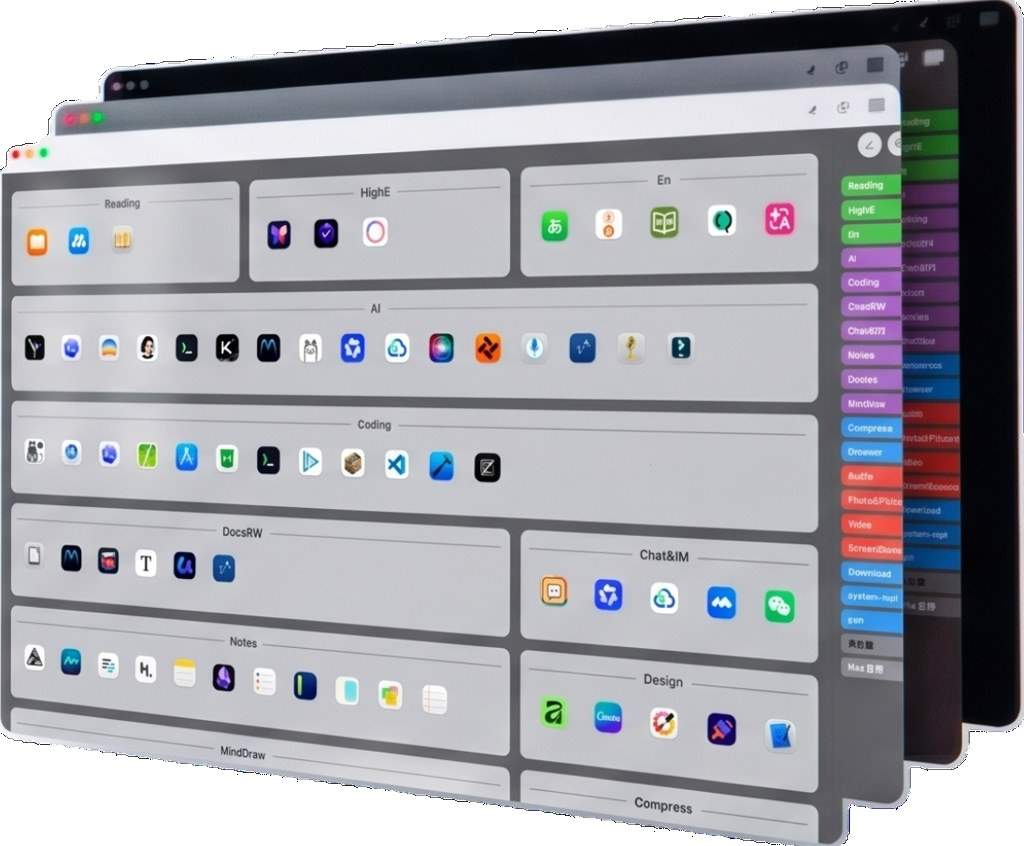
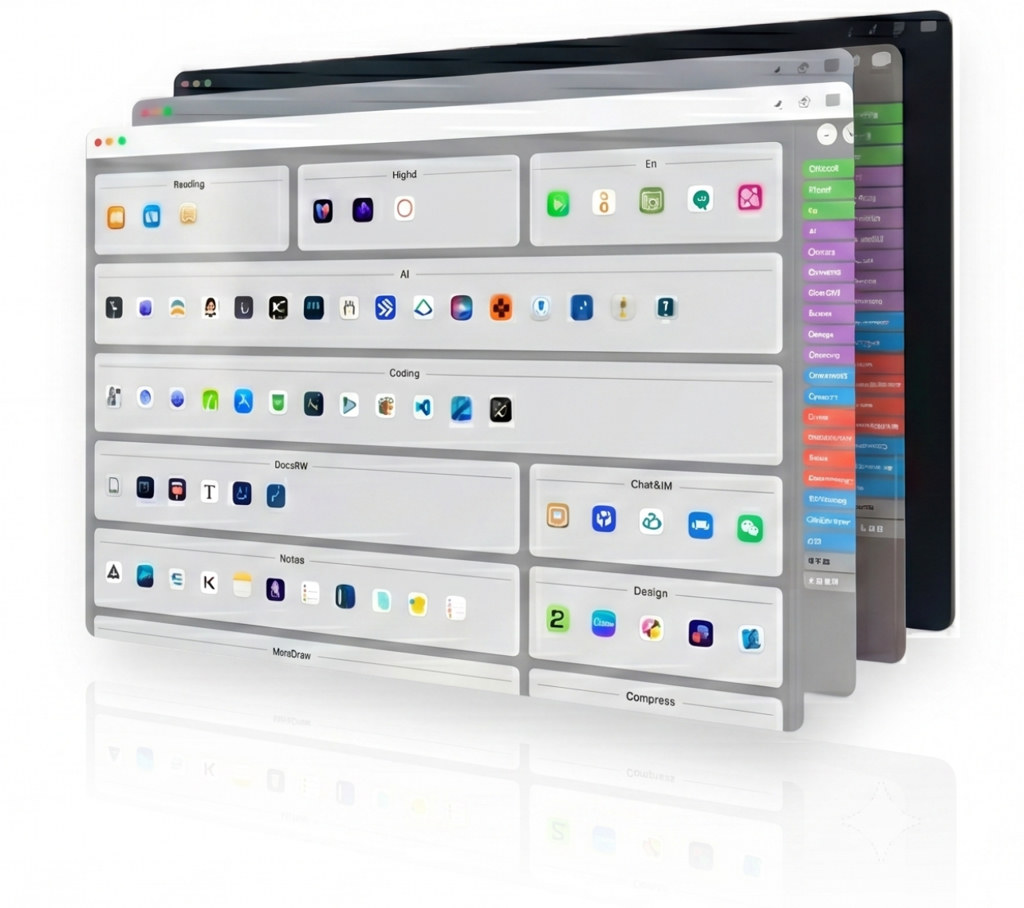
Replace hero visual with user-provided reference image
Use the new white-background stacked-window mockup for the first screen
on both zh and en landing pages.

diff --git a/docs/index.html b/docs/index.html
@@ -42,7 +42,7 @@
           src="assets/hero-visual.jpg"
           alt="TagLauncher 应用网格：多层窗口立体堆叠展示"
           width="1024"
-          height="846"
+          height="908"
           fetchpriority="high"
           decoding="async">
       </figure>

diff --git a/docs/index-en.html b/docs/index-en.html
@@ -42,7 +42,7 @@
           src="assets/hero-visual.jpg"
           alt="TagLauncher App Grid with stacked 3D window presentation"
           width="1024"
-          height="846"
+          height="908"
           fetchpriority="high"
           decoding="async">
       </figure>
